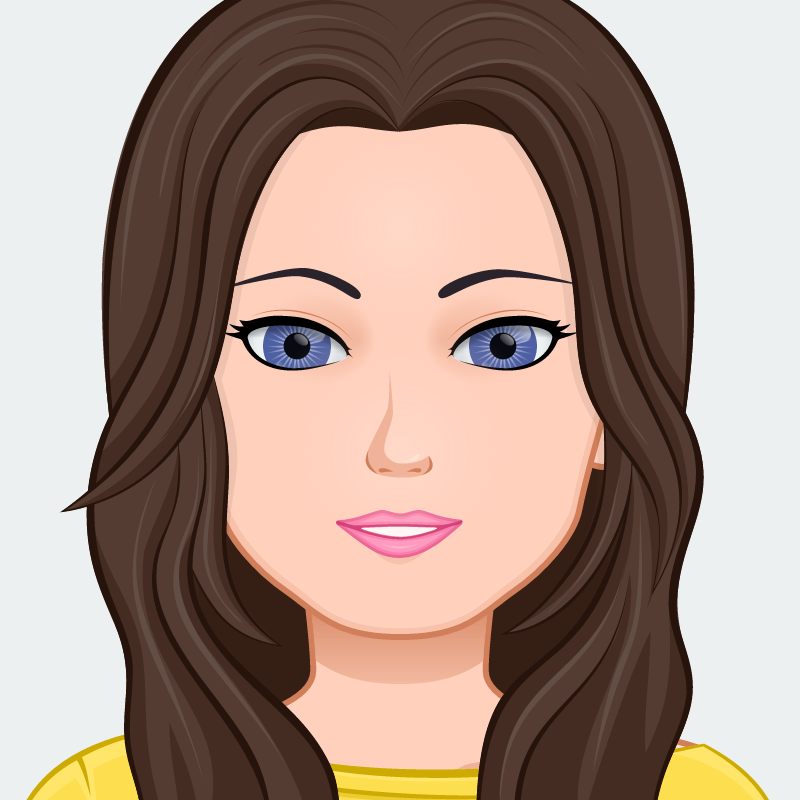
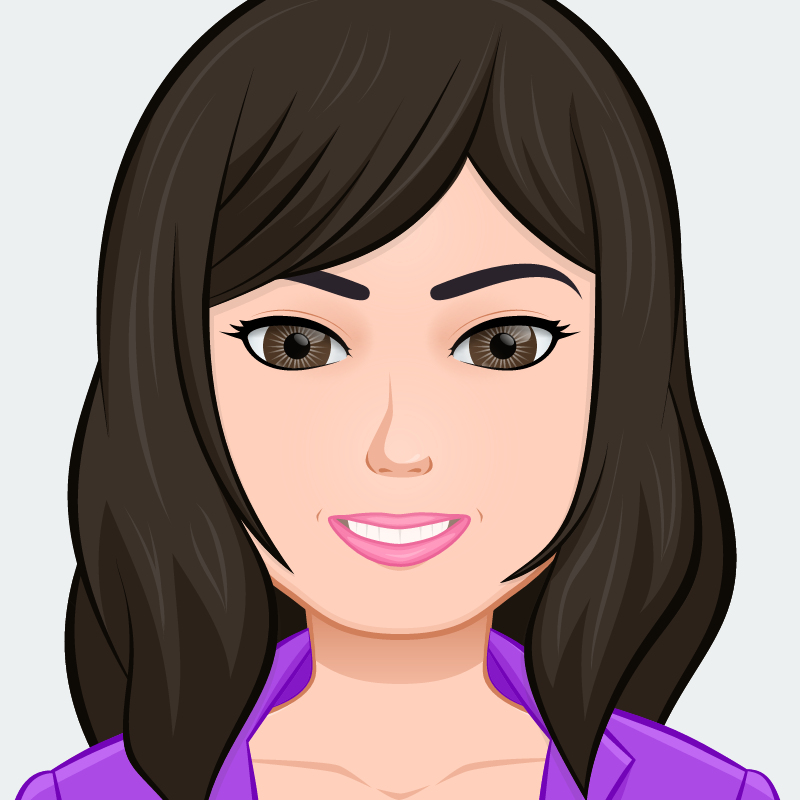
in progress

diff --git a/index.html b/index.html
@@ -3,16 +3,64 @@ layout: default
 title: Cardano Engineering
 ---
 
+<div id="welcome" class="fill-screen">
 	<div class="jumbotron">
 		<h1>Cardano Engineering</h1>
-		<p>Engineering the future of pensions and financial risk management</p>
+		<p>The Engineering Team at Cardano Financial Services.</p>
+  </div>
+  <div>
+    <h2 class=>Rethinking our IT engineering for a better outcome</h2>
   </div>
   <img src="./assets/images/string-phone.png" class='img-responsive'>
-  <div id="welcome">
-    <p>
-    Here at Cardano we moving our technology to a world class web based open platform and we want to share our thoughts, ideas, successes and failures with the world to help anyone looking to do the same with their organisation.
-    </p>
-    <p>
-    Follow our journey in <a href="/blog">our blogs</a> as our Software and Hardware Engineering team records the experience.
-    </p>
+</div>
+
+<div class="fill-screen fixed-attachment" style="background-image: url(./assets/images/desert-island-upright.jpg)"></div>
+
+
+<div id="goal" class="welcome-element container-sm-height">
+  <div class="row-sm-height">
+    <div class="col-sm-height">
+      <img class="icon" src="./assets/images/target.png">
+    </div>
+    <div class="col-sm-height">
+      <h1>The goal</h1>
+      <p>Cardano needs to evolve to building modern web applications capable of being managed and hosted on the cloud.</p>
+    </div>
   </div>
+</div>
+
+<div class="fill-screen">
+  <div class="fill-screen fixed-attachment" style="background-image: url(./assets/images/desert-island-flipped.jpg)">
+</div>
+
+<div id="challenge" class="welcome-element container-sm-height">
+  <div class="row-sm-height">
+    <div class="col-sm-height">
+      <img class="icon" src="./assets/images/house.png">
+    </div>
+    <div class="col-sm-height">
+      <h1>The challenge</h1>
+      <p>An application landscape that has grown and evolved over 15 years with various technologies and ideologies.  Time for some house rennovations!</p>
+    </div>
+  </div>
+</div>
+
+<div class="fill-screen">
+  <div class="fill-screen fixed-attachment" style="background-image: url(./assets/images/desert-island-flipped.jpg)">
+</div>
+
+<div id="team" class="welcome-element container-sm-height">
+  <div class="row-sm-height">
+    <div class="col-sm-height">
+      <img class="icon" src="./assets/images/house.png">
+    </div>
+    <div class="col-sm-height">
+      <h1>The Team</h1>
+      <img class="avatar" src="./assets/images/avatars/alison.png">
+    </div>
+  </div>
+</div>
+
+<div class="fill-screen">
+  <div class="fill-screen fixed-attachment" style="background-image: url(./assets/images/desert-island-flipped.jpg)">
+</div>

diff --git a/assets/css/main.scss b/assets/css/main.scss
@@ -8,9 +8,8 @@ html {
 }
 
 body {
-    // font-size: 1.8em;
-    // line-height: 1.2em;
-    color: $text-colour;
+  color: $text-colour;
+  padding-top: 100px;
 }
 
 header {
@@ -20,7 +19,10 @@ header {
 }
 
 .navbar {
-  margin-bottom: 10px;
+  padding: 1.43em 1.07em;
+  background-color: white;
+  -webkit-transition: all 0.5s;
+  transition: all 0.5s;
 }
 .navbar-nav {
   margin-top: -1px;
@@ -29,6 +31,12 @@ header {
 .navbar-brand {
   padding: 5px 0 5px 10px;
   height: auto;
+}
+
+.cbp-af-header-shrink {
+  padding-top: 5px;
+  padding-bottom: 5px;
+  opacity: 0.75;
 }
 
 nav {
@@ -75,6 +83,19 @@ h1,h2,h3,h4,h5,h6 {
     color: $heading-colour;
 }
 
+#welcome {
+  h2 {
+    margin: 0em 0em;
+    text-align: center;
+  }
+}
+
+.jumbotron {
+  padding-top: 0.5em;
+  padding-bottom: 0.05em;
+  color: $heading-colour;
+}
+
 ul.posts {
   font-size: 1.2em;
   list-style-type: none;
@@ -89,10 +110,29 @@ ul.posts {
     margin-bottom: 2.0em;
 }
 
+.content {
+  h1 {
+    margin-top: 0em;
+  }
+}
+
+.welcome-element {
+  padding: 7em 1em;
+  h1 {
+    font-size: 2.5em;
+  }
+  p {
+    color: $welcome-text;
+    font-size: 1.5em;
+  }
+  .icon {
+    padding-right: 2em;
+  }
+}
+
 .fill-screen {
     background-size:cover;
     background-position: center;
-    height: 295px;
 }
 
 .img-responsive {
@@ -100,20 +140,21 @@ ul.posts {
     width: 100%;
 }
 
-.jumbotron {
-  padding-top: 1em;
-  padding-bottom: 0.3em;
-  color: $heading-colour;
+.fixed-attachment {
+  background-attachment: fixed;
 }
 
-#welcome {
-  margin-top: 2em;
+.container-sm-height {
+  display:table;
+  padding-left:0px;
+  padding-right:0px;
 }
-
-.content {
-  h1 {
-    margin-top: 0em;
-  }
+.row-sm-height {
+  display:table-row;
+}
+.col-sm-height {
+  display:table-cell;
+  float:none;
 }
 
 @media (min-width: 768px) {
@@ -143,8 +184,13 @@ ul.posts {
     padding-left: 1em;
   }
   .content {
-    h1 {
-      margin-top: 0.2em;
+    margin-top: 1.5em;
+  }
+
+  #welcome {
+    h2 {
+      margin: 2em 0em;
+      text-align: center;
     }
   }
 }

diff --git a/assets/scripts/classie.js b/assets/scripts/classie.js
@@ -1,0 +1,80 @@
+/*!
+ * classie - class helper functions
+ * from bonzo https://github.com/ded/bonzo
+ *
+ * classie.has( elem, 'my-class' ) -> true/false
+ * classie.add( elem, 'my-new-class' )
+ * classie.remove( elem, 'my-unwanted-class' )
+ * classie.toggle( elem, 'my-class' )
+ */
+
+/*jshint browser: true, strict: true, undef: true */
+/*global define: false */
+
+( function( window ) {
+
+'use strict';
+
+// class helper functions from bonzo https://github.com/ded/bonzo
+
+function classReg( className ) {
+  return new RegExp("(^|\\s+)" + className + "(\\s+|$)");
+}
+
+// classList support for class management
+// altho to be fair, the api sucks because it won't accept multiple classes at once
+var hasClass, addClass, removeClass;
+
+if ( 'classList' in document.documentElement ) {
+  hasClass = function( elem, c ) {
+    return elem.classList.contains( c );
+  };
+  addClass = function( elem, c ) {
+    elem.classList.add( c );
+  };
+  removeClass = function( elem, c ) {
+    elem.classList.remove( c );
+  };
+}
+else {
+  hasClass = function( elem, c ) {
+    return classReg( c ).test( elem.className );
+  };
+  addClass = function( elem, c ) {
+    if ( !hasClass( elem, c ) ) {
+      elem.className = elem.className + ' ' + c;
+    }
+  };
+  removeClass = function( elem, c ) {
+    elem.className = elem.className.replace( classReg( c ), ' ' );
+  };
+}
+
+function toggleClass( elem, c ) {
+  var fn = hasClass( elem, c ) ? removeClass : addClass;
+  fn( elem, c );
+}
+
+var classie = {
+  // full names
+  hasClass: hasClass,
+  addClass: addClass,
+  removeClass: removeClass,
+  toggleClass: toggleClass,
+  // short names
+  has: hasClass,
+  add: addClass,
+  remove: removeClass,
+  toggle: toggleClass
+};
+
+// transport
+if ( typeof define === 'function' && define.amd ) {
+  // AMD
+  define( classie );
+} else {
+  // browser global
+  window.classie = classie;
+}
+
+})( window );

diff --git a/_layouts/default.html b/_layouts/default.html
@@ -14,7 +14,7 @@
 <body>
 
   <header class="container">
-    <nav class="navbar navbar-default" role="navigation">
+    <nav class="navbar navbar-default navbar-fixed-top cbp-af-header" role="navigation">
       <div class="container">
         <div class="navbar-header">
           <button type="button" class="navbar-toggle" data-toggle="collapse" data-target="#site-navbar-collapse">
@@ -24,7 +24,7 @@
             <span class="icon-bar"></span>
           </button>
           <a href="/" class="navbar-brand">
-            <img src='/assets/images/cardano_logo.svg' />
+            <img src='/assets/images/cardano-logo.svg' />
           </a>
         </div>
 
@@ -57,9 +57,11 @@
 
   <script src="https://ajax.googleapis.com/ajax/libs/jquery/1.10.2/jquery.min.js"></script>
   <script src="//maxcdn.bootstrapcdn.com/bootstrap/3.3.6/js/bootstrap.min.js"></script>
+    <script src="/assets/scripts/classie.js"></script>
+    <script src="/assets/scripts/cbpAnimatedHeader.js"></script>
   <script>
     var fill = function() {
-      $('.fill-screen').css('width', window.innerWidth);
+        $('.fill-screen').css('height', window.innerHeight - 100);
     };
     $(function() {
       // on('load') does not seem to work on chrome, ok on safari.

diff --git a/assets/scripts/cbpAnimatedHeader.js b/assets/scripts/cbpAnimatedHeader.js
@@ -1,0 +1,45 @@
+/**
+ * cbpAnimatedHeader.js v1.0.0
+ * http://www.codrops.com
+ *
+ * Licensed under the MIT license.
+ * http://www.opensource.org/licenses/mit-license.php
+ *
+ * Copyright 2013, Codrops
+ * http://www.codrops.com
+ */
+var cbpAnimatedHeader = (function() {
+
+	var docElem = document.documentElement,
+		header = document.querySelector( '.cbp-af-header' ),
+		didScroll = false,
+		changeHeaderOn = 300;
+
+	function init() {
+		scrollPage();
+		window.addEventListener( 'scroll', function( event ) {
+			if( !didScroll ) {
+				didScroll = true;
+				setTimeout( scrollPage, 250 );
+			}
+		}, false );
+	}
+
+	function scrollPage() {
+		var sy = scrollY();
+		if ( sy >= changeHeaderOn ) {
+			classie.add( header, 'cbp-af-header-shrink' );
+		}
+		else {
+			classie.remove( header, 'cbp-af-header-shrink' );
+		}
+		didScroll = false;
+	}
+
+	function scrollY() {
+		return window.pageYOffset || docElem.scrollTop;
+	}
+
+	init();
+
+})();

diff --git a/_sass/colours.scss b/_sass/colours.scss
@@ -30,3 +30,4 @@ $heading-colour: $cardano-colour-1;
 $link-colour: $extra-colour-2;
 $hover-link-colour: $extra-colour-1;
 $footer-colour:  $extra-colour-1;
+$welcome-text: $cardano-colour-2;
